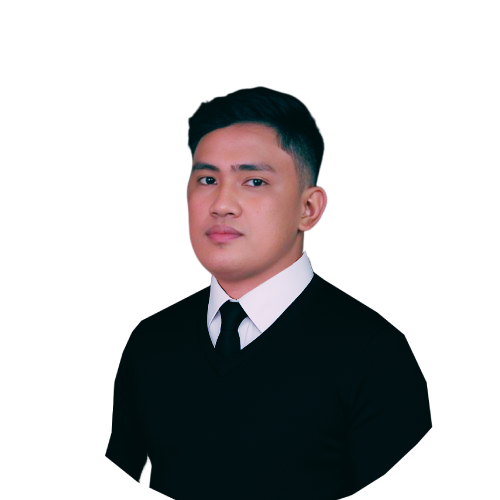
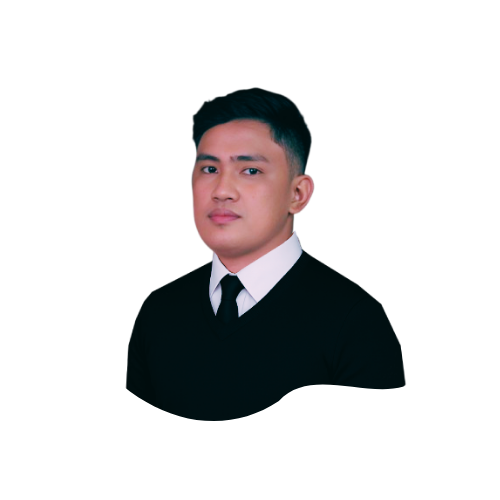
GM

Changed region(s): [[0.21, 0.18, 0.87, 1.0], [0.51, 0.15, 0.54, 0.18]]

diff --git a/src/styles/globals.css b/src/styles/globals.css
@@ -30,3 +30,85 @@ a {
   text-decoration: none;
   color: inherit;
 }
+
+/* --- Glowing Hexagon Image Setup --- */
+.hexagon-container {
+  width: 280px;
+  height: 300px;
+  position: relative;
+  animation: hex-glow-pulse 2s ease-in-out infinite;
+  box-shadow: 0 0 30px rgba(255, 153, 0, 0.6); /* Keep your existing glowing effect */
+  border: 4px solid #FFA500; /* Glowing border color */
+  background: rgba(255, 255, 255, 0.15); /* Slightly lighter transparent white background for better contrast in light mode */
+  backdrop-filter: blur(15px); /* Stronger blur for better glass effect */
+  border-radius: 16px;
+  overflow: visible; /* Allows image to pop out */
+  z-index: 1;
+}
+
+/* Optional: Darker background for dark mode */
+@media (prefers-color-scheme: dark) {
+  .hexagon-container {
+    background: rgba(255, 255, 255, 0.1); /* Slightly more transparent for dark mode */
+  }
+}
+
+/* Rest of your styles */
+.hexagon-img-wrapper {
+  position: absolute;
+  top: -57%; /* Pops out top part of image */
+  left: 50%;
+  transform: translateX(-50%);
+  z-index: 1;
+  width: 150%;
+  height: 165%;
+  pointer-events: none;
+}
+
+.hexagon-img {
+  width: 120%;
+  height: 122%;
+  object-fit: cover;
+}
+
+@keyframes hex-glow-pulse {
+  0%, 100% {
+    box-shadow: 0 0 20px 5px rgba(255, 153, 0, 0.4);
+  }
+  50% {
+    box-shadow: 0 0 40px 15px rgba(255, 153, 0, 0.8);
+  }
+}
+
+
+/* --- Glowing Navbar Setup --- */
+.navbar {
+  background-color: #1e1e1e;
+  padding: 1rem 2rem;
+  border-bottom: 2px solid #FFA500;
+  animation: nav-glow-pulse 2s ease-in-out infinite;
+  box-shadow: 0 0 20px 5px rgba(255, 153, 0, 0.4);
+  position: relative;
+  z-index: 10;
+}
+
+@keyframes nav-glow-pulse {
+  0%, 100% {
+    box-shadow: 0 0 20px 5px rgba(255, 153, 0, 0.4);
+  }
+  50% {
+    box-shadow: 0 0 40px 15px rgba(255, 153, 0, 0.8);
+  }
+}
+
+.dp-glow {
+  filter: drop-shadow(2px 2px 5px rgba(0, 0, 0, 0.2))   /* Light bottom-right shadow */
+          drop-shadow(-2px -2px 5px rgba(0, 0, 0, 0.2)) /* Light top-left shadow */
+          drop-shadow(4px 4px 8px rgba(0, 0, 0, 0.15));  /* Stronger outer shadow */
+  border-radius: 16px; /* Optional: to keep rounded corners */
+  z-index: 3;
+}
+
+
+
+

diff --git a/src/styles/glow.css b/src/styles/glow.css
@@ -11,10 +11,10 @@
   height: 4px;
   width: 100%;
   display: block;
-  background: linear-gradient(90deg, #f2f230, #2DE1FC, #095256);
+  background: linear-gradient(90deg, #FFA500, #FFA500, #FA5006);
   background-size: 200% 100%;
   animation: glowBorder 3s linear infinite;
-  box-shadow: 0 0 10px #0ff;
+  box-shadow: 0 0 10px rgb(242, 245, 48);
   z-index: 10;
 }
 
@@ -27,39 +27,3 @@
   }
 }
 
-/* --- Hexagon Glow Image (Transparent Background) --- */
-.hexagon-container {
-  width: 280px;
-  height: 300px;
-  position: relative;
-  animation: hex-glow-pulse 2s ease-in-out infinite;
-  box-shadow: 0 0 30px rgba(255, 153, 0, 0.6);
-  border: 4px solid #FFA500; /* Jorange color border */
-  background-color: transparent; /* Transparent background */
-  display: flex;
-  justify-content: center;
-  align-items: center;
-  overflow: visible; /* Allow image to pop outside */
-  border-radius: 16px; /* Rounded corners for smoothness */
-}
-
-/* Image inside hexagon (with the popping effect) */
-.hexagon-img {
-  width: 120%; /* Increase width of the image */
-  height: 140%; /* Increase height of the image */
-  object-fit: cover;
-  position: absolute;
-  top: -40%; /* Move the image up to make it pop out from the hexagon */
-  left: 0; /* Center the image horizontally */
-  z-index: 1; /* Make sure the image stays above the background */
-}
-
-/* Glowing Hexagon Animation */
-@keyframes hex-glow-pulse {
-  0%, 100% {
-    box-shadow: 0 0 20px 5px rgba(255, 153, 0, 0.4);
-  }
-  50% {
-    box-shadow: 0 0 40px 15px rgba(255, 153, 0, 0.8);
-  }
-}

diff --git a/src/components/HeroSection.tsx b/src/components/HeroSection.tsx
@@ -104,16 +104,19 @@ const HeroSection = forwardRef<HTMLElement, {}>((props, ref) => {
             </div>
           </div>
 
-          {/* Hexagon with glowing effect */}
-          <div className="flex items-center justify-center min-h-screen">
+      {/* Hexagon with glowing effect */}
+      <div className="flex items-center justify-center min-h-screen">
   <div className="hexagon-container">
-    <img
-      src="/lovable-uploads/dp.png"
-      alt="Joshua Balando - AI Automation Specialist"
-      className="hexagon-img"
-    />
+    <div className="hexagon-img-wrapper">
+      <img
+        src="/lovable-uploads/dp.png"
+        alt="Joshua Balando - AI Automation Specialist"
+        className="hexagon-img dp-glow"
+      />
+    </div>
   </div>
 </div>
+
 
 
 

diff --git a/src/components/ui/LogoSliderCards.tsx b/src/components/ui/LogoSliderCards.tsx
@@ -13,11 +13,12 @@ const logos = [
   { src: '/logos/clickfunnels.png', description: 'Sales funnels made easy' },
   { src: '/logos/slack.png', description: 'Team communication' },
   { src: '/logos/discord.png', description: 'Chat for communities' },
-  { src: '/logos/typeform.png', description: 'Interactive forms' },
+  { src: '/logos/canva.png', description: 'Design Tool' },
   { src: '/logos/airtable.png', description: 'Database and collaboration' },
   { src: '/logos/notion.png', description: 'Workspace for notes' },
   { src: '/logos/dropbox.png', description: 'Cloud storage' },
   { src: '/logos/workspace.png', description: 'Google Workspace' },
+  { src: '/logos/figma.png', description: 'UI/UX Design' },
 ];
 
 const LogoSliderCards = () => {

diff --git a/src/components/AboutSection.tsx b/src/components/AboutSection.tsx
@@ -8,7 +8,7 @@ const AboutSection = forwardRef<HTMLDivElement, {}>((props, ref) => {
   const skills = [
     "GoHighLevel CRM Workflows",
     "Zapier & Make Automation",
-    "API & Webhook Integrations",
+    "Funnel & Website design",
     "CRM Data Management",
     "Process Optimization",
     "No-Code/Low-Code Solutions"
